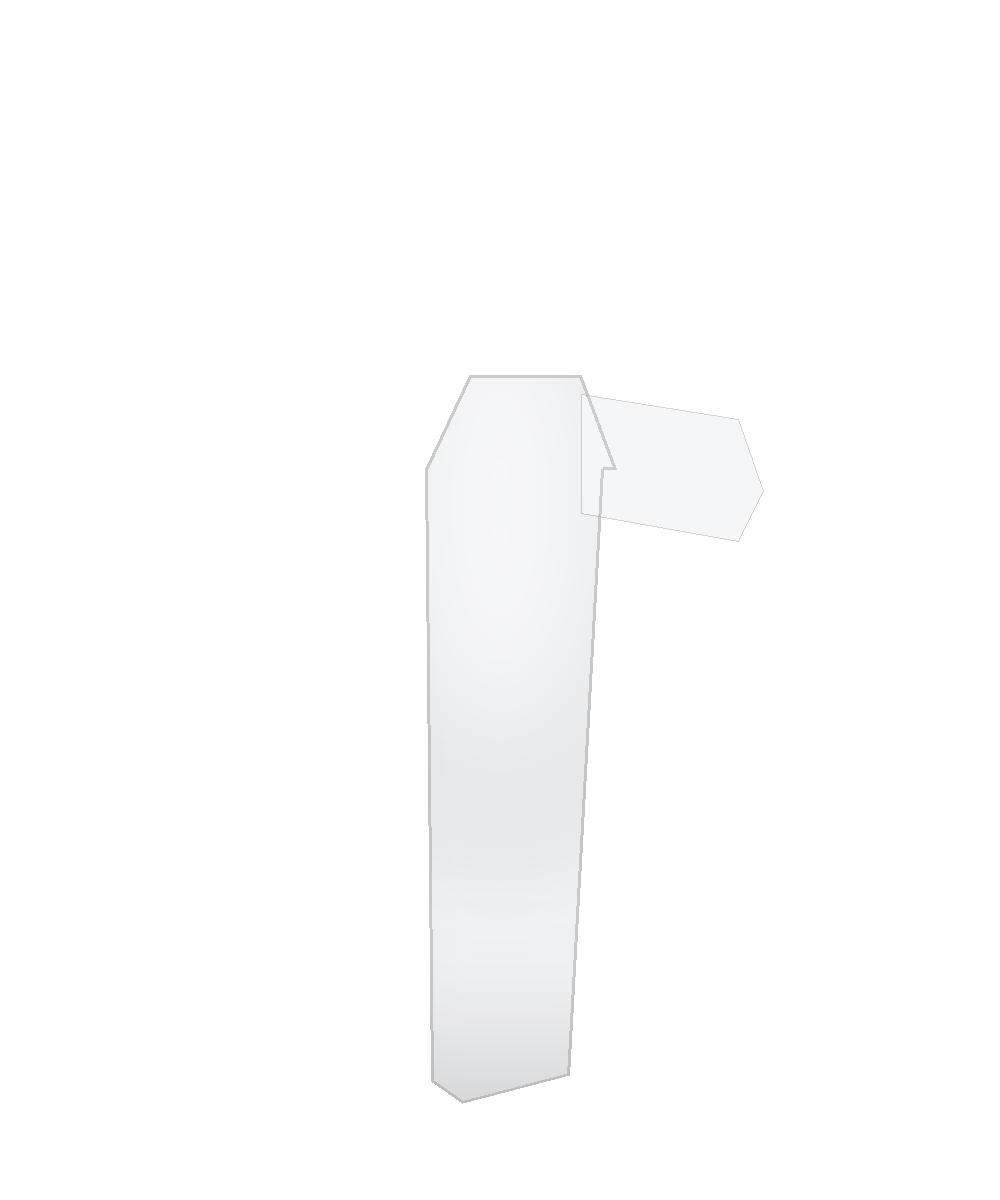
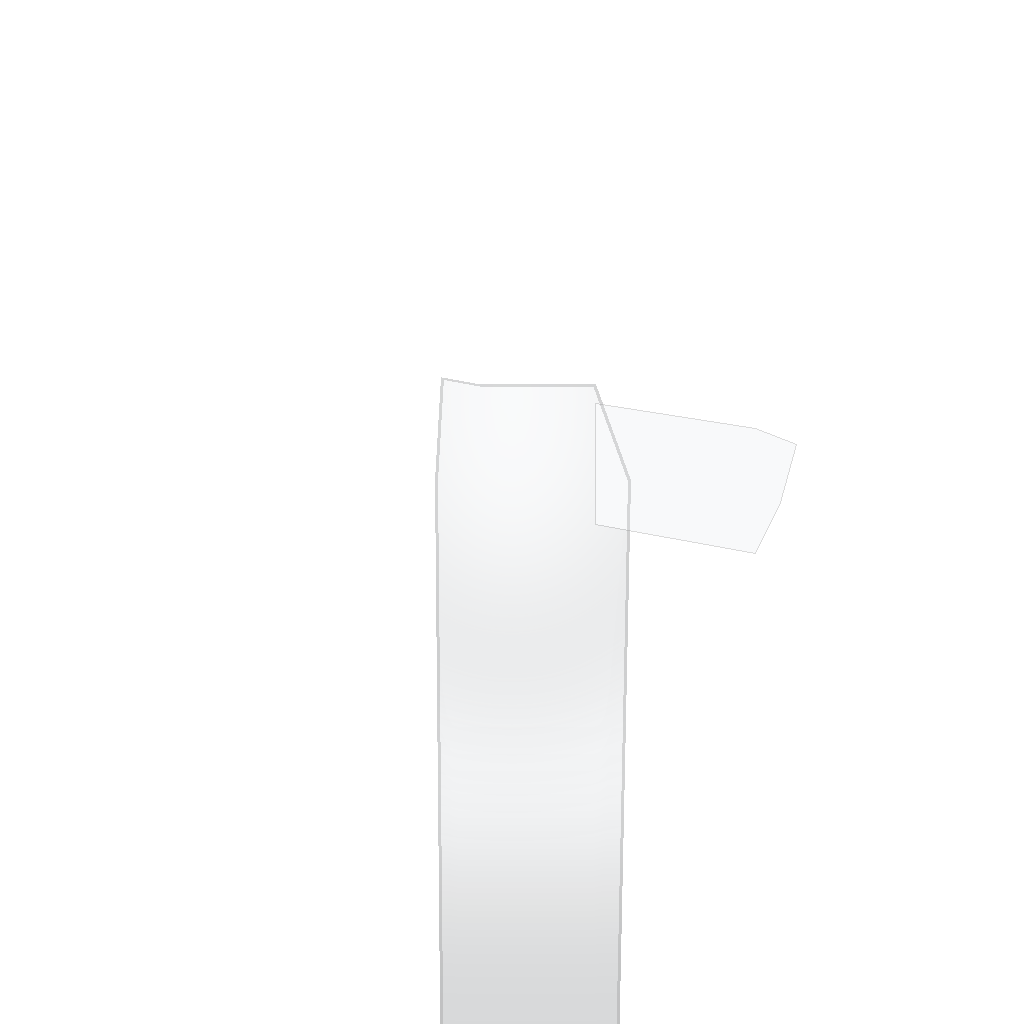
Use real polo photos; PDP polo-only (no blank selector); square photo geometry

diff --git a/tshirt/Tshirt Prototype.dc.html b/tshirt/Tshirt Prototype.dc.html
@@ -137,12 +137,6 @@
 
         <!-- Colour -->
         <div style="margin-top:22px;padding-top:22px;border-top:1px solid #E7E9F0;">
-          <div style="font-size:13px;font-weight:600;margin-bottom:10px;">Blank</div>
-          <div style="display:flex;gap:8px;margin-bottom:18px;">
-            <sc-for list="{{ blankBtns }}" as="b" hint-placeholder-count="2">
-              <button onClick="{{ b.onSelect }}" style="{{ b.style }}"><span style="font-weight:600;">{{ b.name }}</span><span style="display:block;font-size:11px;opacity:.7;margin-top:1px;">{{ b.meta }}</span></button>
-            </sc-for>
-          </div>
           <div style="font-size:13px;font-weight:600;margin-bottom:10px;">Colour <span style="color:#9AA3B2;font-weight:500;">· {{ colorName }}</span></div>
           <div style="display:flex;align-items:center;gap:10px;flex-wrap:wrap;">
             <sc-for list="{{ colorSwatches }}" as="c" hint-placeholder-count="8">
@@ -757,7 +751,7 @@ class Component extends DCLogic {
     this.SHIP_SHORT='Fri 7 Aug'; this.SHIP_LONG='Friday 7 August';
     this.state = {
       screen:'picker',
-      blankIdx:0, colorIdx:0,
+      blankIdx:1, colorIdx:0,
       // preview
       pdpView:'pfront', viewAngle:0,
       // design
@@ -842,8 +836,8 @@ class Component extends DCLogic {
   }
   // coordinate space of the interactive canvas — adapts to photo vs illustration base
   _editSpace(){ const S=this.state, f=this._facePanel(S.viewAngle), chest=(f==='back')?'back':'front', editable=(f==='front'||f==='back');
-    if(S.studioMode!=='illustration'){ const tall=this.blank().type!=='polo';
-      return {vw:100, vh:(tall?120:100), area:(tall?{cx:50,cy:52,w:34,h:36}:{cx:50,cy:46,w:28,h:30}), panel:chest, editable, aspect:(tall?'100 / 120':'1 / 1')}; }
+    if(S.studioMode!=='illustration'){
+      return {vw:100, vh:100, area:{cx:52,cy:36,w:26,h:30}, panel:chest, editable, aspect:'1 / 1'}; }
     return {vw:320, vh:384, area:this.printArea(chest), panel:chest, editable, aspect:'320 / 384'}; }
   itemMetrics(it,panelKey,areaOv){
     const A=areaOv||this.printArea(panelKey);
@@ -1038,15 +1032,12 @@ class Component extends DCLogic {
     // ---- PDP gallery: real photos, recoloured, with the design composited on ----
     const galViews=[{view:'pfront',v:'front',panel:'front',label:'FRONT'},{view:'pback',v:'back',panel:'back',label:'BACK'},{view:'pside',v:'side',panel:'rSleeve',label:'SIDE'}];
     const gcur=galViews.find(x=>x.view===S.pdpView)||galViews[0];
-    const gTall=blank.type!=='polo'; const gVB=gTall?120:100;
-    const gArea=gcur.v==='side'?(gTall?{cx:44,cy:42,w:13,h:18}:{cx:43,cy:40,w:12,h:16}):(gTall?{cx:50,cy:52,w:34,h:36}:{cx:50,cy:46,w:28,h:30});
-    const galleryComposite={__html:'<svg viewBox="0 0 100 '+gVB+'" preserveAspectRatio="xMidYMid meet" width="100%" height="100%">'+this.artOn(gcur.panel,1,gArea)+'</svg>'};
+    const gArea=gcur.v==='side'?{cx:42,cy:33,w:12,h:16}:{cx:52,cy:36,w:26,h:30};
+    const galleryComposite={__html:'<svg viewBox="0 0 100 100" preserveAspectRatio="xMidYMid meet" width="100%" height="100%">'+this.artOn(gcur.panel,1,gArea)+'</svg>'};
     const galleryLabel=gcur.label; const photoSrc='./assets/'+blank.slug+'-'+gcur.v+'.png';
     const galThumbs=galViews.map(it=>({ src:'./assets/'+blank.slug+'-'+it.v+'.png', onClick:()=>this.set('pdpView',it.view),
       style:'position:relative;width:72px;height:84px;border-radius:12px;overflow:hidden;cursor:pointer;background:#fff;padding:0;border:2px solid '+(it.view===S.pdpView?'#2D5BFF':'#E7E9F0')+';'}));
     // ---- blank selector + colours ----
-    const blankBtns=this.BLANKS.map((b,i)=>({name:b.short.replace(/^\w/,c=>c.toUpperCase()), meta:b.fabric, onSelect:()=>this.setState({blankIdx:i}),
-      style:'flex:1;text-align:left;cursor:pointer;border-radius:11px;padding:10px 13px;border:1.5px solid '+(i===S.blankIdx?'#2D5BFF':'#E7E9F0')+';background:'+(i===S.blankIdx?'#EEF3FF':'#fff')+';color:'+(i===S.blankIdx?'#0B2A8A':'#14142B')+';font-size:13px;'}));
     const swatch=(i)=>{ const c=this.COLORS[i]; const on=i===S.colorIdx;
       return 'width:34px;height:34px;border-radius:10px;cursor:pointer;background:'+c.hex+';border:2px solid '+(on?'#2D5BFF':'transparent')+';box-shadow:0 0 0 1px rgba(0,0,0,.14)'+(on?', 0 0 0 4px rgba(45,91,255,.18)':'')+';'; };
     const colorSwatches=this.COLORS.map((c,i)=>({name:c.name,onSelect:()=>this.set('colorIdx',i),style:swatch(i)}));
@@ -1082,11 +1073,9 @@ class Component extends DCLogic {
     // photo-mode compositing (uses ./assets/<slug>-<view>.png)
     const pView=facing===2?'back':(facing===1||facing===3)?'side':'front';
     const pPanel=facing===0?'front':facing===2?'back':facing===1?'rSleeve':'lSleeve';
-    // calibrate overlay to the photo's aspect: polo photos are square (1:1), tee cutouts are 5:6
-    const pTall=blank.type!=='polo'; const pVB=pTall?120:100;
-    const pArea=pView==='side'
-      ? (pTall?{cx:44,cy:42,w:13,h:18}:{cx:43,cy:40,w:12,h:16})
-      : (pTall?{cx:50,cy:52,w:34,h:36}:{cx:50,cy:46,w:28,h:30});
+    // photos are square 1024² cutouts; chest calibrated to their content
+    const pVB=100;
+    const pArea=pView==='side'?{cx:42,cy:33,w:12,h:16}:{cx:52,cy:36,w:26,h:30};
     const pSrc='./assets/'+blank.slug+'-'+pView+'.png';
     const pBox='<rect x="'+(pArea.cx-pArea.w/2)+'" y="'+(pArea.cy-pArea.h/2)+'" width="'+pArea.w+'" height="'+pArea.h+'" rx="1" fill="none" stroke="#2D5BFF" stroke-width="0.4" stroke-dasharray="2 2" opacity="0.55"/>';
     const pArt='<svg viewBox="0 0 100 '+pVB+'" preserveAspectRatio="xMidYMid meet" width="100%" height="100%">'+pBox+this.artOn(pPanel,1,pArea)+'</svg>';
@@ -1199,7 +1188,7 @@ class Component extends DCLogic {
       pickerTiles,
 
       // PDP
-      blankName:blank.name, blankShort:blank.short, colorName:color.name, blankBtns,
+      blankName:blank.name, blankShort:blank.short, colorName:color.name,
       unitFmt:this.fmt(unit), qtyTotal:qt, shirtWord:qt===1?'shirt':'shirts',
       bulkHint: qt>=40?' · volume price applied':(qt<40?' · '+this.fmt(this.unit(method,40,nP))+' each at 40+':''),
       specs:blank.specs.map(v=>({v})),
